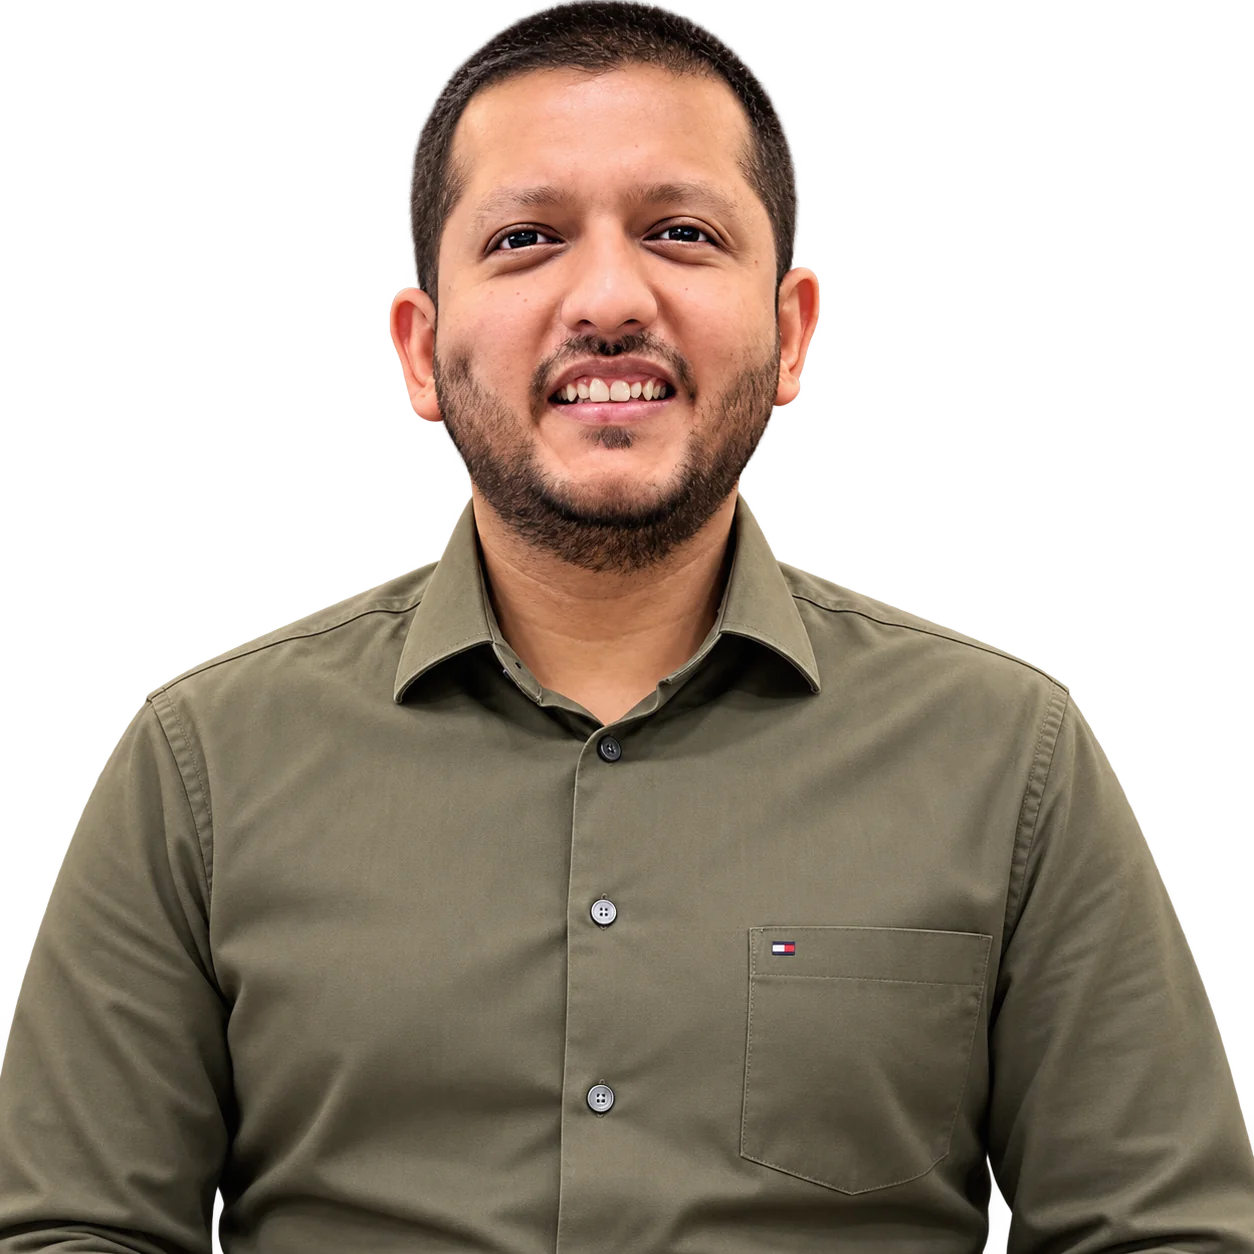
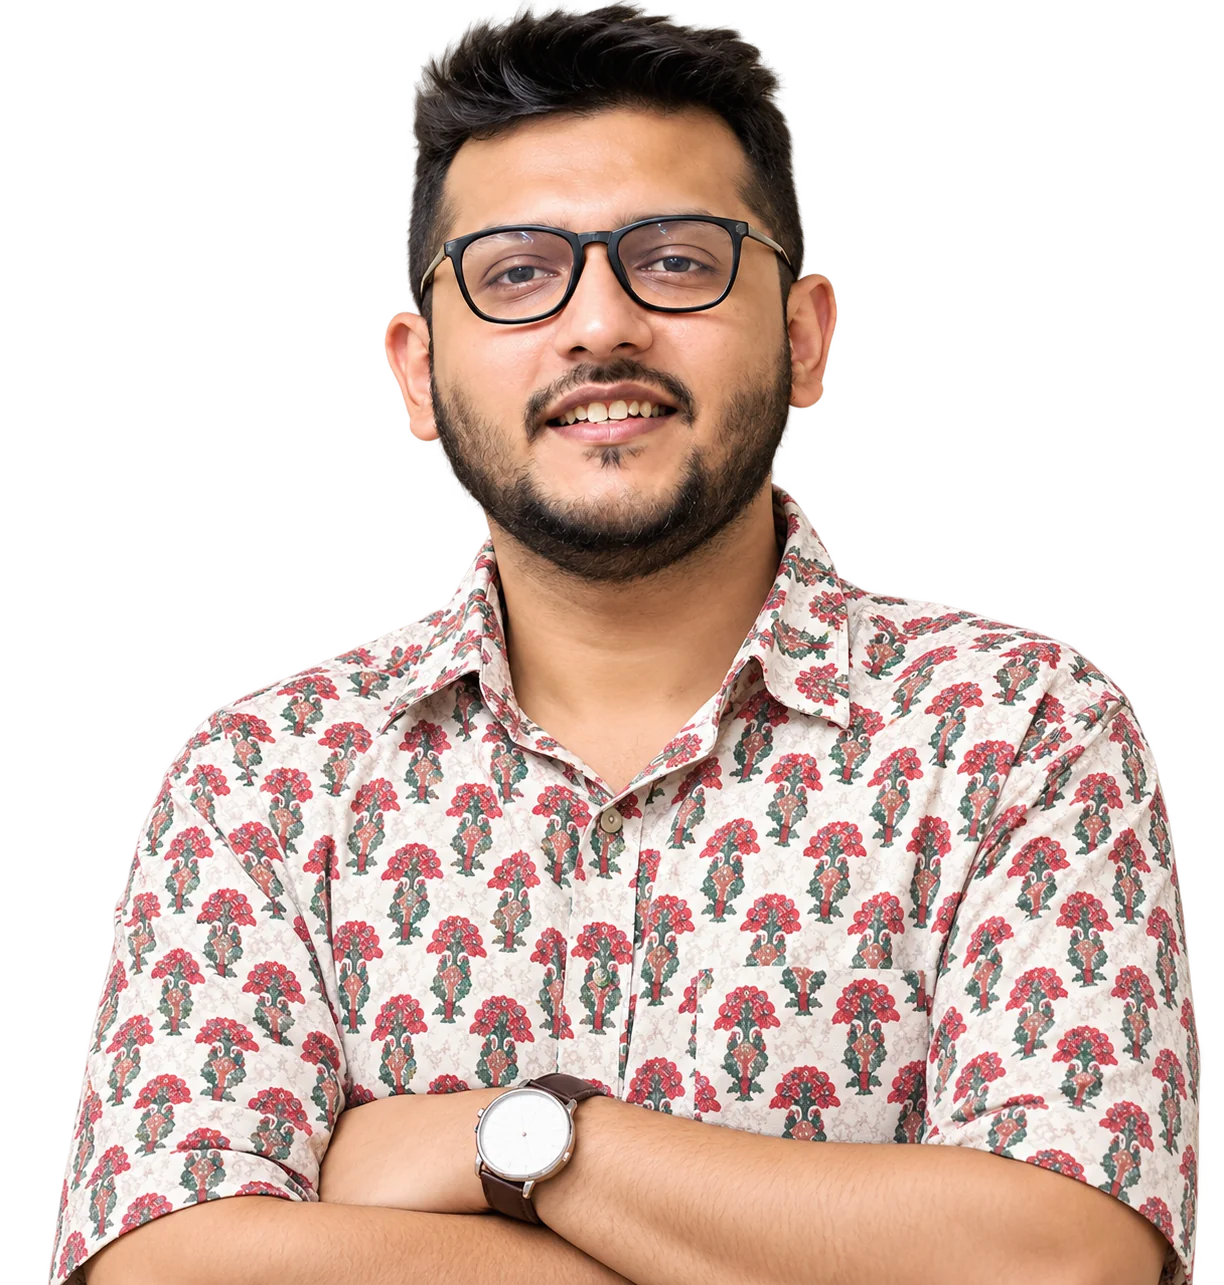
perf: convert all images to optimized WebP format (92% size reduction), clear cache, and add smooth rendering optimizations

diff --git a/home1.html b/home1.html
@@ -282,7 +282,7 @@
     .hero-fullwidth-bg {
       position: absolute;
       inset: 0;
-      background-image: url('https://brandlaunchpad.lal10.com/images/hero-fullwidth.png');
+      background-image: url('/images/hero-fullwidth.webp');
       background-size: cover;
       background-position: center top;
       background-repeat: no-repeat;
@@ -1364,7 +1364,7 @@
         letter-spacing: 1px !important;
       }
       .hero-fullwidth-bg {
-        background-image: url('https://brandlaunchpad.lal10.com/phonebg.png') !important;
+        background-image: url('/phonebg.webp') !important;
         background-position: 88% top !important;
       }
       .hero-gradient-overlay {
@@ -2091,7 +2091,7 @@
         <!-- Maneet Gohil -->
         <div class="team-card">
           <div class="team-img-wrap">
-            <img src="https://brandlaunchpad.lal10.com/images/team/Maneet.png" alt="Maneet Gohil" class="team-img" />
+            <img src="/images/team/Maneet.webp" onerror="this.src='https://brandlaunchpad.lal10.com/images/team/Maneet.png'" alt="Maneet Gohil" class="team-img" loading="lazy" decoding="async" />
           </div>
           <div class="team-content">
             <h3 class="team-name">Maneet Gohil</h3>
@@ -2110,7 +2110,7 @@
         <!-- Sanchit Govil -->
         <div class="team-card">
           <div class="team-img-wrap">
-            <img src="https://brandlaunchpad.lal10.com/images/team/Sanchit.png" alt="Sanchit Govil" class="team-img" />
+            <img src="/images/team/Sanchit.webp" onerror="this.src='https://brandlaunchpad.lal10.com/images/team/Sanchit.png'" alt="Sanchit Govil" class="team-img" loading="lazy" decoding="async" />
           </div>
           <div class="team-content">
             <h3 class="team-name">Sanchit Govil</h3>
@@ -2129,7 +2129,7 @@
         <!-- Albin Jose -->
         <div class="team-card">
           <div class="team-img-wrap">
-            <img src="https://brandlaunchpad.lal10.com/images/team/Albin.png" alt="Albin Jose" class="team-img" />
+            <img src="/images/team/Albin.webp" onerror="this.src='https://brandlaunchpad.lal10.com/images/team/Albin.png'" alt="Albin Jose" class="team-img" loading="lazy" decoding="async" />
           </div>
           <div class="team-content">
             <h3 class="team-name">Albin Jose</h3>

diff --git a/app/home1/page.tsx b/app/home1/page.tsx
@@ -206,7 +206,7 @@ export default function Home1Page() {
         <div className="hero-fullwidth-bg" style={{
           position: 'absolute',
           inset: 0,
-          backgroundImage: `url('/images/hero-fullwidth.png')`,
+          backgroundImage: `url('/images/hero-fullwidth.webp')`,
           backgroundSize: 'cover',
           backgroundPosition: 'center top',
           backgroundRepeat: 'no-repeat',
@@ -885,21 +885,21 @@ export default function Home1Page() {
                 role: 'CO-FOUNDER, LAL10 & THEFASHIONOS',
                 bio: "Co-founder of Lal10 and TheFashionOS, and a TEDx speaker. Over the past decade he's turned raw ideas into operating companies, with deep expertise in exports and go-to-market. At Lal10 he's built a full-stack fashion ecosystem connecting global D2C and B2B brands with certified MSME factories. Forbes 30 Under 30 and Entrepreneur 35 Under 35.",
                 linkedin: 'https://www.linkedin.com/in/maneetgohil/',
-                image: '/images/team/Maneet.png'
+                image: '/images/team/Maneet.webp'
               },
               {
                 name: 'Sanchit Govil',
                 role: 'CO-FOUNDER, LAL10',
                 bio: "Co-founder of Lal10, where he's built partnerships with Indian and global brands. A Forbes India 30 Under 30 honoree, he believes business is built on the relationships and financial systems most founders overlook — a philosophy that shapes how Lal10 operates behind the scenes.",
                 linkedin: 'https://www.linkedin.com/in/sanchitgovil/',
-                image: '/images/team/Sanchit.png'
+                image: '/images/team/Sanchit.webp'
               },
               {
                 name: 'Albin Jose',
                 role: 'CO-FOUNDER & CPO / AI',
                 bio: "Owns product and the technology layer — the tooling that keeps 50 factories, their capacity and their quality data in one connected system.",
                 linkedin: 'https://www.linkedin.com/in/albin-anto-jose-26670532/',
-                image: '/images/team/Albin.png'
+                image: '/images/team/Albin.webp'
               }
             ].map((member, idx) => (
               <div 

diff --git a/maneet.html b/maneet.html
@@ -2381,7 +2381,7 @@
       <div class="team-grid">
         <article class="team-card" data-reveal data-cursor="view">
           <div class="team-img-wrap">
-            <img src="https://brandlaunchpad.lal10.com/images/team/Maneet.png" alt="Maneet Gohil" class="team-img" />
+            <img src="/images/team/Maneet.webp" onerror="this.src='https://brandlaunchpad.lal10.com/images/team/Maneet.png'" alt="Maneet Gohil" class="team-img" loading="lazy" decoding="async" />
           </div>
           <div class="team-rule"></div>
           <h3 class="team-name">Maneet Gohil</h3>
@@ -2399,7 +2399,7 @@
 
         <article class="team-card" data-reveal data-cursor="view">
           <div class="team-img-wrap">
-            <img src="https://brandlaunchpad.lal10.com/images/team/Sanchit.png" alt="Sanchit Govil" class="team-img" />
+            <img src="/images/team/Sanchit.webp" onerror="this.src='https://brandlaunchpad.lal10.com/images/team/Sanchit.png'" alt="Sanchit Govil" class="team-img" loading="lazy" decoding="async" />
           </div>
           <div class="team-rule"></div>
           <h3 class="team-name">Sanchit Govil</h3>
@@ -2417,7 +2417,7 @@
 
         <article class="team-card" data-reveal data-cursor="view">
           <div class="team-img-wrap">
-            <img src="https://brandlaunchpad.lal10.com/images/team/Albin.png" alt="Albin Jose" class="team-img" />
+            <img src="/images/team/Albin.webp" onerror="this.src='https://brandlaunchpad.lal10.com/images/team/Albin.png'" alt="Albin Jose" class="team-img" loading="lazy" decoding="async" />
           </div>
           <div class="team-rule"></div>
           <h3 class="team-name">Albin Jose</h3>

diff --git a/public/maneet.html b/public/maneet.html
@@ -2381,7 +2381,7 @@
       <div class="team-grid">
         <article class="team-card" data-reveal data-cursor="view">
           <div class="team-img-wrap">
-            <img src="https://brandlaunchpad.lal10.com/images/team/Maneet.png" alt="Maneet Gohil" class="team-img" />
+            <img src="/images/team/Maneet.webp" onerror="this.src='https://brandlaunchpad.lal10.com/images/team/Maneet.png'" alt="Maneet Gohil" class="team-img" loading="lazy" decoding="async" />
           </div>
           <div class="team-rule"></div>
           <h3 class="team-name">Maneet Gohil</h3>
@@ -2399,7 +2399,7 @@
 
         <article class="team-card" data-reveal data-cursor="view">
           <div class="team-img-wrap">
-            <img src="https://brandlaunchpad.lal10.com/images/team/Sanchit.png" alt="Sanchit Govil" class="team-img" />
+            <img src="/images/team/Sanchit.webp" onerror="this.src='https://brandlaunchpad.lal10.com/images/team/Sanchit.png'" alt="Sanchit Govil" class="team-img" loading="lazy" decoding="async" />
           </div>
           <div class="team-rule"></div>
           <h3 class="team-name">Sanchit Govil</h3>
@@ -2417,7 +2417,7 @@
 
         <article class="team-card" data-reveal data-cursor="view">
           <div class="team-img-wrap">
-            <img src="https://brandlaunchpad.lal10.com/images/team/Albin.png" alt="Albin Jose" class="team-img" />
+            <img src="/images/team/Albin.webp" onerror="this.src='https://brandlaunchpad.lal10.com/images/team/Albin.png'" alt="Albin Jose" class="team-img" loading="lazy" decoding="async" />
           </div>
           <div class="team-rule"></div>
           <h3 class="team-name">Albin Jose</h3>
